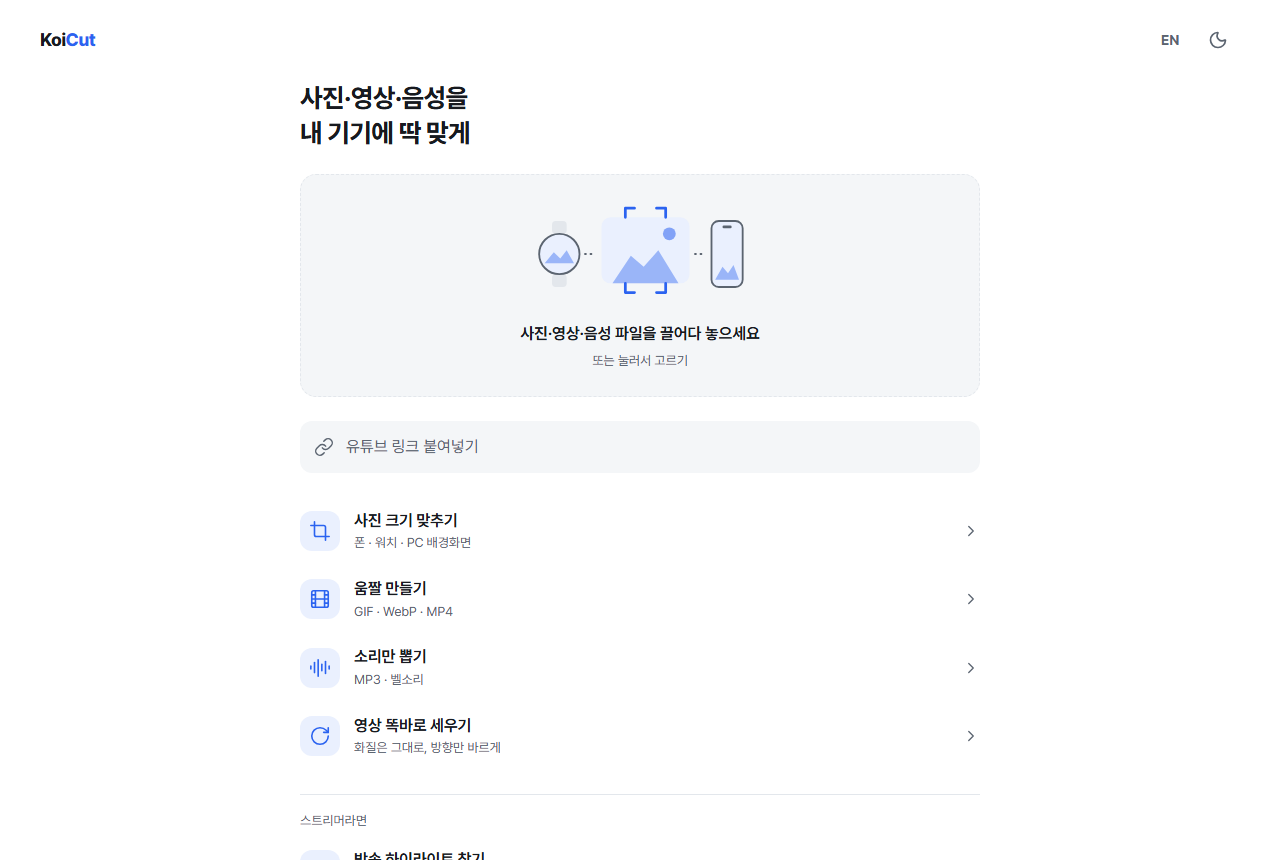
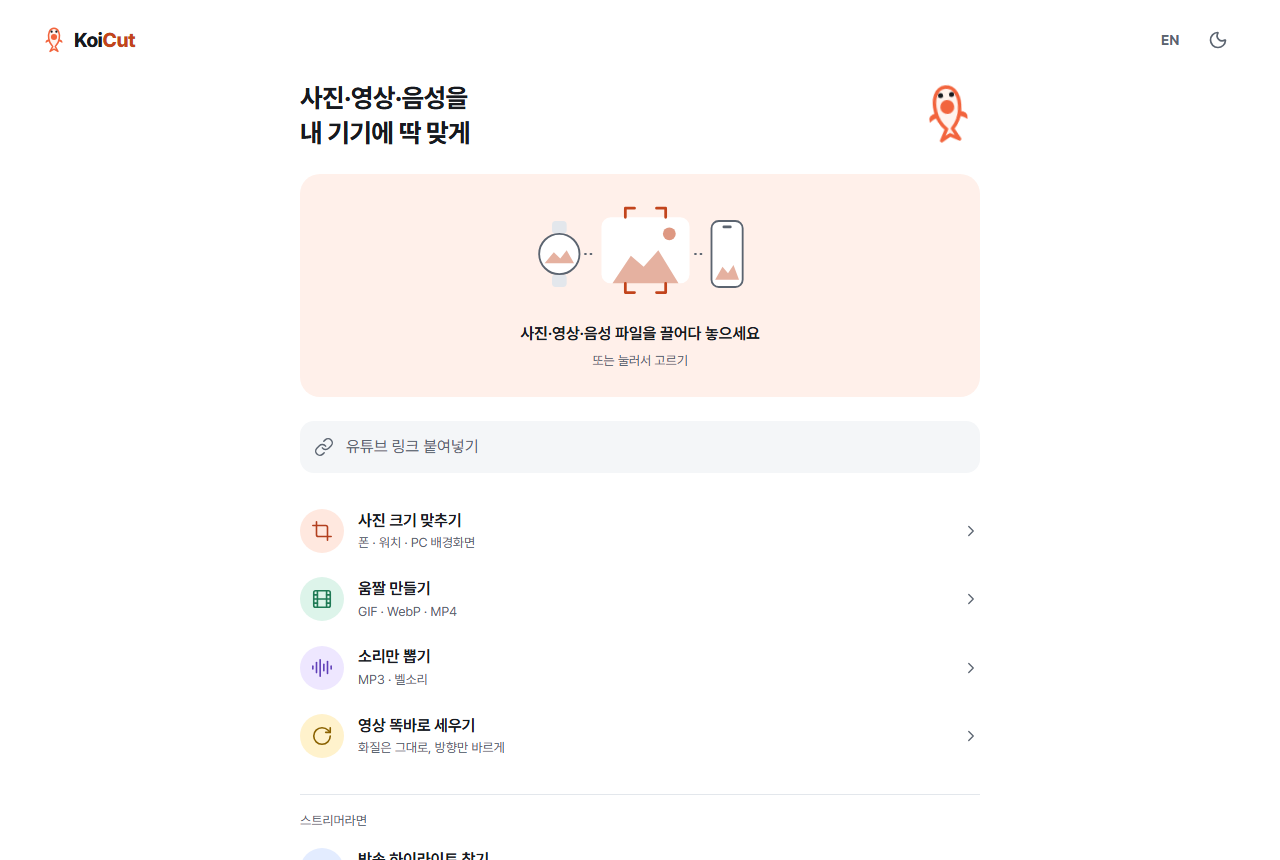
docs: README 정리 (새 화면 캡처, 배지, 도메인, 로컬 실행), 로드맵 갱신
- 잉어 주황 디자인으로 README 캡처 4장을 다시 찍고, 다시 찍는 스크립트를 남김 (README_SHOTS=1일 때만)
- CI·배포 배지, koicut.com 데모 배지, 구성도에 Route 53·ACM
- 로컬 실행 방법, ADR 52개, Terraform 모듈 10개
- ROADMAP M7에 브랜드·도메인·광고 항목

diff --git a/apps/web/e2e/readme-shots.spec.ts b/apps/web/e2e/readme-shots.spec.ts
@@ -1,0 +1,82 @@
+import { expect, test, type Page } from '@playwright/test';
+import { fileURLToPath } from 'node:url';
+
+/**
+ * README 화면 캡처 (docs/images). 평소 테스트에서는 건너뛴다.
+ * 다시 찍기: README_SHOTS=1 pnpm --filter @fitcut/web e2e readme-shots --project=desktop
+ */
+test.skip(!process.env.README_SHOTS, 'README_SHOTS=1일 때만 찍는다');
+
+const out = (name: string) =>
+  fileURLToPath(new URL(`../../../docs/images/${name}.png`, import.meta.url));
+
+/** 캡처용 부드러운 그라데이션 사진 */
+async function pastel(page: Page, width: number, height: number): Promise<Buffer> {
+  const dataUrl = await page.evaluate(
+    ({ width, height }) => {
+      const canvas = document.createElement('canvas');
+      canvas.width = width;
+      canvas.height = height;
+      const ctx = canvas.getContext('2d');
+      if (!ctx) throw new Error('no canvas');
+      const g = ctx.createLinearGradient(0, 0, width, height);
+      g.addColorStop(0, '#bcd7f5');
+      g.addColorStop(0.45, '#f6b8c8');
+      g.addColorStop(1, '#ffd36e');
+      ctx.fillStyle = g;
+      ctx.fillRect(0, 0, width, height);
+      return canvas.toDataURL('image/jpeg', 0.95);
+    },
+    { width, height },
+  );
+  return Buffer.from(dataUrl.split(',')[1] ?? '', 'base64');
+}
+
+test.describe('데스크톱', () => {
+  test.use({ viewport: { width: 1280, height: 860 }, colorScheme: 'light' });
+
+  test('홈과 사진 도구', async ({ page }) => {
+    await page.goto('/');
+    await page.screenshot({ path: out('home') });
+
+    await page.getByLabel(/파일을 끌어다 놓으세요/).setInputFiles({
+      name: 'sample.jpg',
+      mimeType: 'image/jpeg',
+      buffer: await pastel(page, 1600, 1200),
+    });
+    await expect(page.getByRole('heading', { level: 1, name: '사진' })).toBeVisible();
+    await page.getByRole('searchbox', { name: '기기 이름으로 찾기' }).fill('17 프로');
+    await page
+      .getByRole('list', { name: '검색 결과' })
+      .getByRole('button', { name: /^iPhone 17 Pro \d/ })
+      .click();
+    await page.getByRole('searchbox', { name: '기기 이름으로 찾기' }).fill('');
+    await page.getByRole('searchbox', { name: '기기 이름으로 찾기' }).blur();
+    await page.mouse.move(0, 0);
+    await page.screenshot({ path: out('photo') });
+  });
+
+  test('하이라이트 리플레이', async ({ page }) => {
+    await page.route('**/api/streamer/me', (route) =>
+      route.fulfill({ json: { connection: null } }),
+    );
+    await page.goto('/highlight');
+    await page.getByRole('button', { name: '예시 방송 열기' }).click();
+    await page.getByRole('button', { name: '10배' }).click();
+    await page.getByRole('button', { name: '재생', exact: true }).click();
+    await page.getByRole('button', { name: '잠시 멈춤' }).click();
+    await page.getByRole('button', { name: '결과 바로 보기' }).click();
+    await expect(page.getByText('30:00 / 30:00')).toBeVisible();
+    await page.mouse.move(0, 0);
+    await page.screenshot({ path: out('highlight-replay') });
+  });
+});
+
+test.describe('모바일', () => {
+  test.use({ viewport: { width: 390, height: 844 }, deviceScaleFactor: 2, colorScheme: 'light' });
+
+  test('홈', async ({ page }) => {
+    await page.goto('/');
+    await page.screenshot({ path: out('home-mobile') });
+  });
+});

diff --git a/README.md b/README.md
@@ -1,4 +1,8 @@
-# KoiCut
+<h1><img src="apps/web/public/favicon.svg" width="36" height="36" alt="" align="top" /> KoiCut</h1>
+
+[![CI](https://github.com/Altlog214608/fitcut/actions/workflows/ci.yml/badge.svg)](https://github.com/Altlog214608/fitcut/actions/workflows/ci.yml)
+[![Deploy](https://github.com/Altlog214608/fitcut/actions/workflows/deploy.yml/badge.svg)](https://github.com/Altlog214608/fitcut/actions/workflows/deploy.yml)
+[![Demo](https://img.shields.io/badge/demo-koicut.com-C2441C)](https://koicut.com)
 
 사진·영상·음성을 내 기기에 딱 맞게. 폰 배경화면, 워치 페이스, 움짤, 벨소리, 방송 하이라이트를 한 곳에서 만드는 웹 서비스.
 
@@ -7,7 +11,7 @@
 **클라우드 포트폴리오 프로젝트**다. 기능만큼 중요한 목표는 **AWS 서버리스로 쓰지 않을 때 비용이 0에 가까운 구조를 만들고, 그 근거를 숫자로 남기는 것**이다.
 
 - 데모: https://koicut.com (main에 머지하면 자동 배포되는 dev 환경)
-- 상태: M0~M5 기능 완료, M7 운영 고도화(관측성·비용 리포트·부하 테스트·브라우저 변환 비교) 완료. 남은 것은 실제 방송 데이터로 하는 정확도 측정 ([로드맵](docs/ROADMAP.md))
+- 상태: M0~M5 기능 완료, M7 운영 고도화(관측성·비용 리포트·부하 테스트·브라우저 변환 비교) 완료, 내 도메인(Route 53)과 광고 자리까지 붙여 실제 운영 중. 남은 것은 실제 방송 데이터로 하는 정확도 측정 ([로드맵](docs/ROADMAP.md))
 
 | 홈 | 사진: 기기에 맞춰 자르기 | 하이라이트: 예시 방송 리플레이 |
 | --- | --- | --- |
@@ -44,7 +48,7 @@
 
 ```mermaid
 flowchart TB
-  user([사용자 브라우저]) --> cf[CloudFront]
+  user([사용자 브라우저]) -- koicut.com --> r53[Route 53] --> cf[CloudFront<br/>ACM 인증서]
   cf --> web[(S3 웹)]
   cf -- /api/* --> api[HTTP API + Lambda]
   api --> ddb[(DynamoDB)]
@@ -63,6 +67,7 @@ flowchart TB
 - **비용 상한이 설계에 들어 있다.** IP 해시별 하루 할당량, API 속도 제한, 워커 동시 실행 상한, 입력 크기·길이 제한, S3 수명 주기, Athena 쿼리당 스캔 한도, 월 예산 알림.
 - **개인정보는 최소로.** 사진 원본·파일명·원본 IP·채팅 닉네임을 저장하지 않는다 (IP는 솔트 해시). 파일은 기본적으로 하루 안에 지워지고, 사용자가 동의한 파일만 30일 보관한다.
 - **보안.** CI는 GitHub OIDC로 plan 역할과 배포 역할을 나누고 권한 경계를 건다 (장기 액세스 키 없음). 비밀값은 SSM, 스트리머 OAuth 토큰은 KMS로 암호화한다. 관리자 API는 Cognito 관리자 그룹 + MFA.
+- **내 도메인도 코드로.** Route 53 호스팅 영역, ACM 인증서(DNS 검증), CloudFront 별칭을 Terraform 모듈 하나로 만들고, www·cloudfront.net 주소는 CloudFront Function이 koicut.com으로 301 보낸다. 상시 비용은 호스팅 영역 월 $0.50 하나 ([ADR-051](docs/DECISIONS.md)).
 - **관측성.** CloudWatch 대시보드 하나와 알람 8개(잡 실패율, 실패 대기열 4개, Lambda 오류, API 5xx)가 무료 한도 안에서 이메일로 알린다 ([ADR-046](docs/DECISIONS.md)).
 
 자세한 구성: [docs/ARCHITECTURE.md](docs/ARCHITECTURE.md)
@@ -74,9 +79,24 @@ flowchart TB
 | 프론트엔드 | React, TypeScript, Vite, Web Worker + OffscreenCanvas, TF.js(업스케일), libheif-js(HEIC) |
 | 백엔드 | TypeScript (Node.js 24, arm64 Lambda), ffmpeg (Lambda 컨테이너 이미지), Fargate(수집기) |
 | 데이터 | DynamoDB 온디맨드, S3, SQS, Glue Data Catalog, Athena |
-| 인프라 | Terraform (모듈 9개, S3 원격 상태), 서울 리전, CloudFront + OAC |
+| 인프라 | Terraform (모듈 10개, S3 원격 상태), 서울 리전, CloudFront + OAC, Route 53 + ACM |
 | CI/CD | GitHub Actions + AWS OIDC. PR에서 lint·test·terraform plan, main 머지 시 apply와 배포 |
 | 테스트 | Vitest(단위), Playwright(E2E: 데스크톱·Pixel 7·iPhone), k6(부하) |
+
+## 로컬에서 실행
+
+Node 24, pnpm 12가 필요하다. AWS 없이 웹 화면과 사진 도구(브라우저 처리)는 그대로 돌아간다.
+
+```sh
+pnpm install
+pnpm dev                          # http://localhost:5173
+pnpm lint && pnpm typecheck && pnpm test
+pnpm --filter @fitcut/web e2e             # Playwright (데스크톱·Pixel 7·iPhone)
+```
+
+인프라는 `infra/terraform/bootstrap`(상태 버킷·OIDC 역할·예산, 로컬 1회)을 먼저 적용하고, 그다음부터는 PR에서 plan, main 머지 때 GitHub Actions가 `envs/dev`를 apply하고 웹을 배포한다 ([ADR-018](docs/DECISIONS.md)).
+
+README 화면 캡처는 `README_SHOTS=1 pnpm --filter @fitcut/web e2e readme-shots --project=desktop`로 다시 찍는다.
 
 ## 측정 기록
 
@@ -145,4 +165,4 @@ docs/                  기획·설계 문서, 기술 결정 기록(ADR)
 - [기기 프리셋](docs/PRESETS.md)
 - [UI/UX](docs/UI.md)
 - [로드맵](docs/ROADMAP.md)
-- [기술 결정 기록 (ADR 48개)](docs/DECISIONS.md)
+- [기술 결정 기록 (ADR 52개)](docs/DECISIONS.md)

diff --git a/docs/ROADMAP.md b/docs/ROADMAP.md
@@ -127,4 +127,7 @@
 - [x] CloudWatch 대시보드, 실패율 알람 — ADR-046, 무료 한도 안 (알람 지표 8개, 대시보드 1개)
 - [x] 태그별 월 비용 리포트 → README — `pnpm --filter @fitcut/admin cost:report` (ADR-047). 2026-10-15 README에 첫 표
 - [x] 브라우저 변환(ffmpeg.wasm)과 서버 변환 비교 실험 (ADR-003) — PC 단일 스레드 약 6초 vs 서버 7.5초(+업로드 1.5초), wasm 30.7MB·멀티 스레드는 탭이 죽음 → 서버 경로 유지
+- [x] 잉어 브랜드 UI (ADR-050) — 주황 포인트, 잉어 마크와 표정, 연못을 도는 잉어 진행 표시
+- [x] 내 도메인 koicut.com (ADR-051) — Route 53 + ACM + CloudFront 별칭, www·cloudfront.net은 301. 2026-10-16
+- [ ] 광고 (ADR-052) — AdSense 확인 코드·ads.txt·광고 자리 두 곳 배포 완료, 심사 승인 후 광고 단위 번호 넣기
 - [ ] (선택) PR 미리보기 환경, 보안 사고 자동 대응
